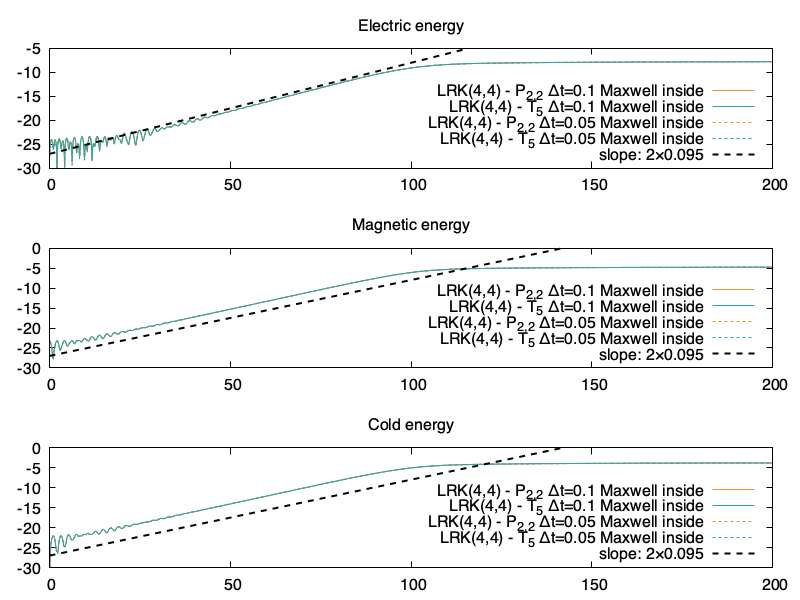
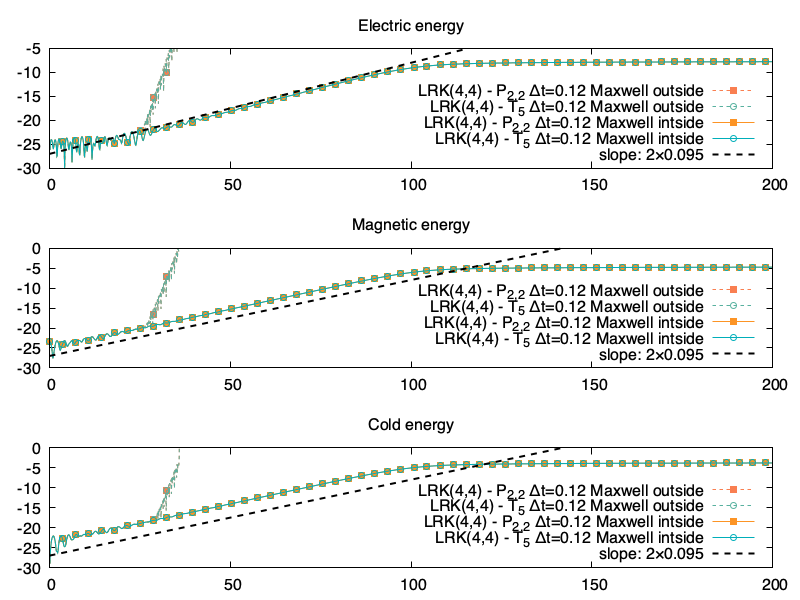
📝 improve results on LRK(4,4) with P(2,2) or T(5) with CFL Maxwell test

diff --git a/chaps/thesis/chap3/sections/numeric_m.tex b/chaps/thesis/chap3/sections/numeric_m.tex
@@ -30,7 +30,7 @@ Dans un premier temps nous souhaitons étudier la faisabilité de ne pas résoud
   \label{fig:approx:energies4d}
 \end{figure}
 
-Sur la figure~\ref{fig:approx:energies:cfl} on teste avec la partie linéaire données par~\eqref{eq:3:LNmaxwell} et étudiée dans la section~\ref{s3:approx}, avec un pas de temps deux fois plus grand que précédemment. On remarque que les résultats sont très similaires. \Josselin{Lancer des runs en limite de CFL (avec Maxwell, prendre le 0.12 donné par la simu DP4(3), et potentiellement une autre un peu plus bas) et comparer avec des résultats sans Maxwell (et voir exploser en temps court dans la phase linéaire), bref comparer Maxwell \emph{inside} et Maxwell \emph{outside}. Donc il reste quelques runs à lancer pour améliorer ça.} L'absence de condition de stabilité provenant des équations de Maxwell permet de prendre des pas de temps plus grand, mais ce choix est contraint par une condition de stabilité non-linéaire provenant du transport en $v$.
+Sur la figure~\ref{fig:approx:energies:cfl} on effectue la comparaison entre une méthode de Lawson approchée avec la partie linéaire donnée par~\eqref{eq:3:LNsmaxwell} (test précédent) et avec la partie linéaire donnée par~\eqref{eq:3:LNmaxwell}, présentées dans la section~\ref{s3:approx}, avec un pas de temps supérieur à l'estimation de stabilité faite dans la section~\ref{ssec:3:cflMaxwell}, $\Delta t=0.12$. On remarque de suite l'intérêt d'intégrer les équations de Maxwell dans la partie linéaire (courbes étiquetées \emph{Maxwell inside}) où le schéma est stable, les simulations effectuées avec la partie linéaire précédemment utilisées sont instables car le contrainte de stabilité est violée. L'absence de condition de stabilité provenant des équations de Maxwell permet de prendre des pas de temps plus grand, mais ce choix est contraint par une condition de stabilité non-linéaire provenant du transport en $v$.
 
 \begin{figure}[h]
   \centering
